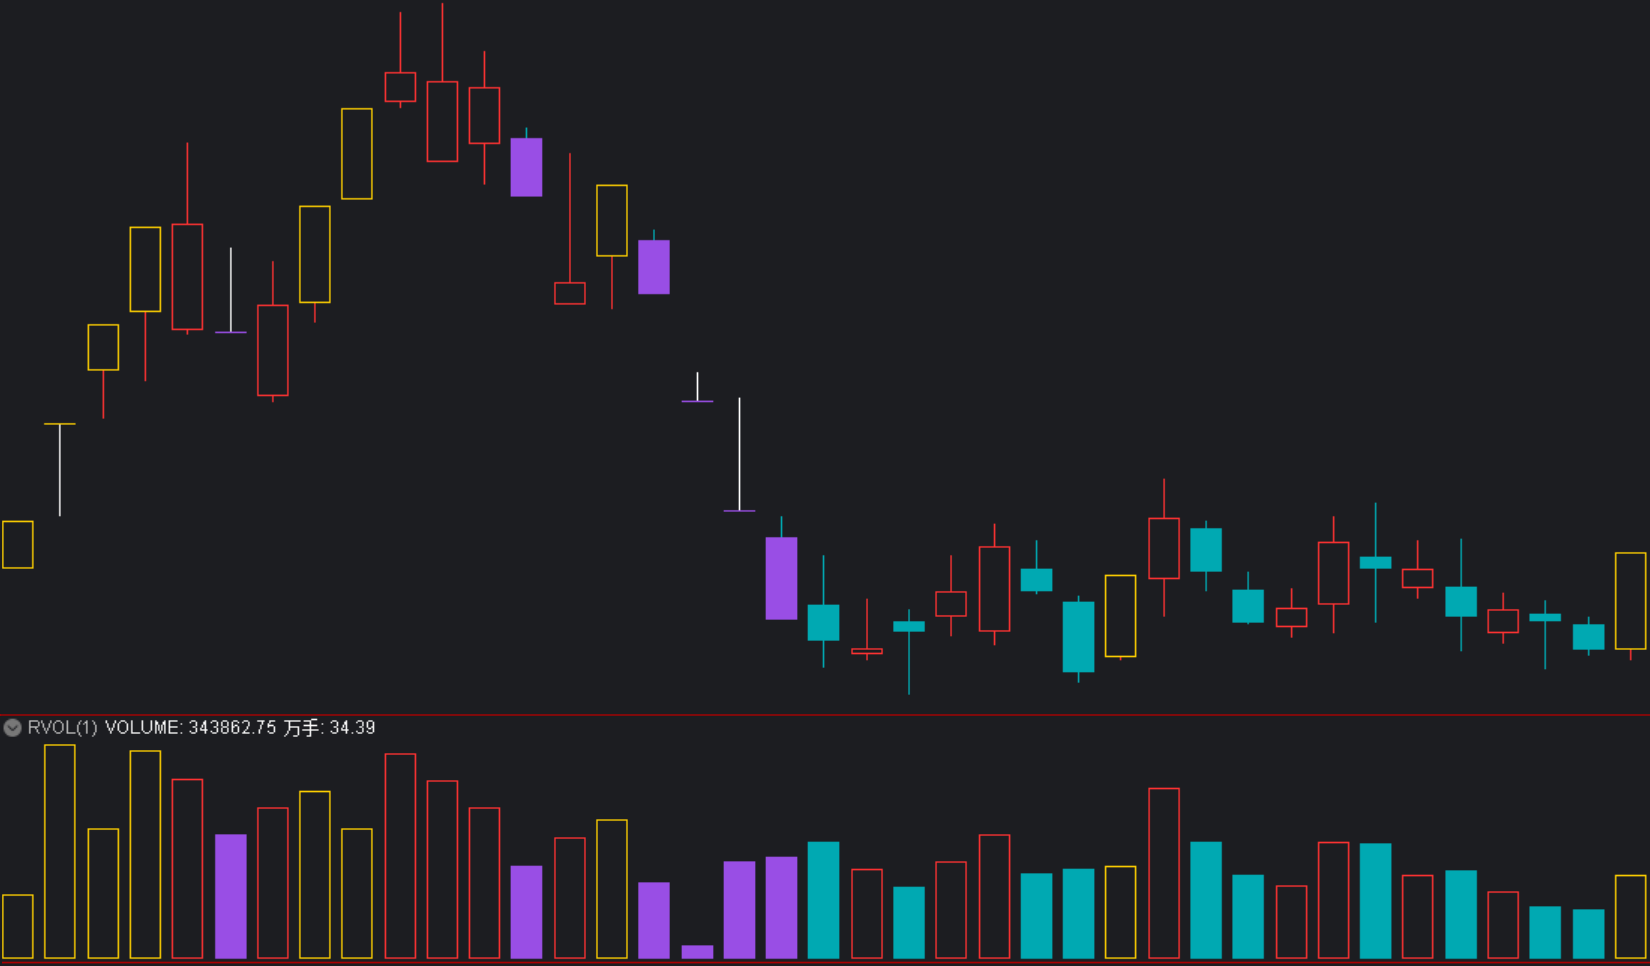
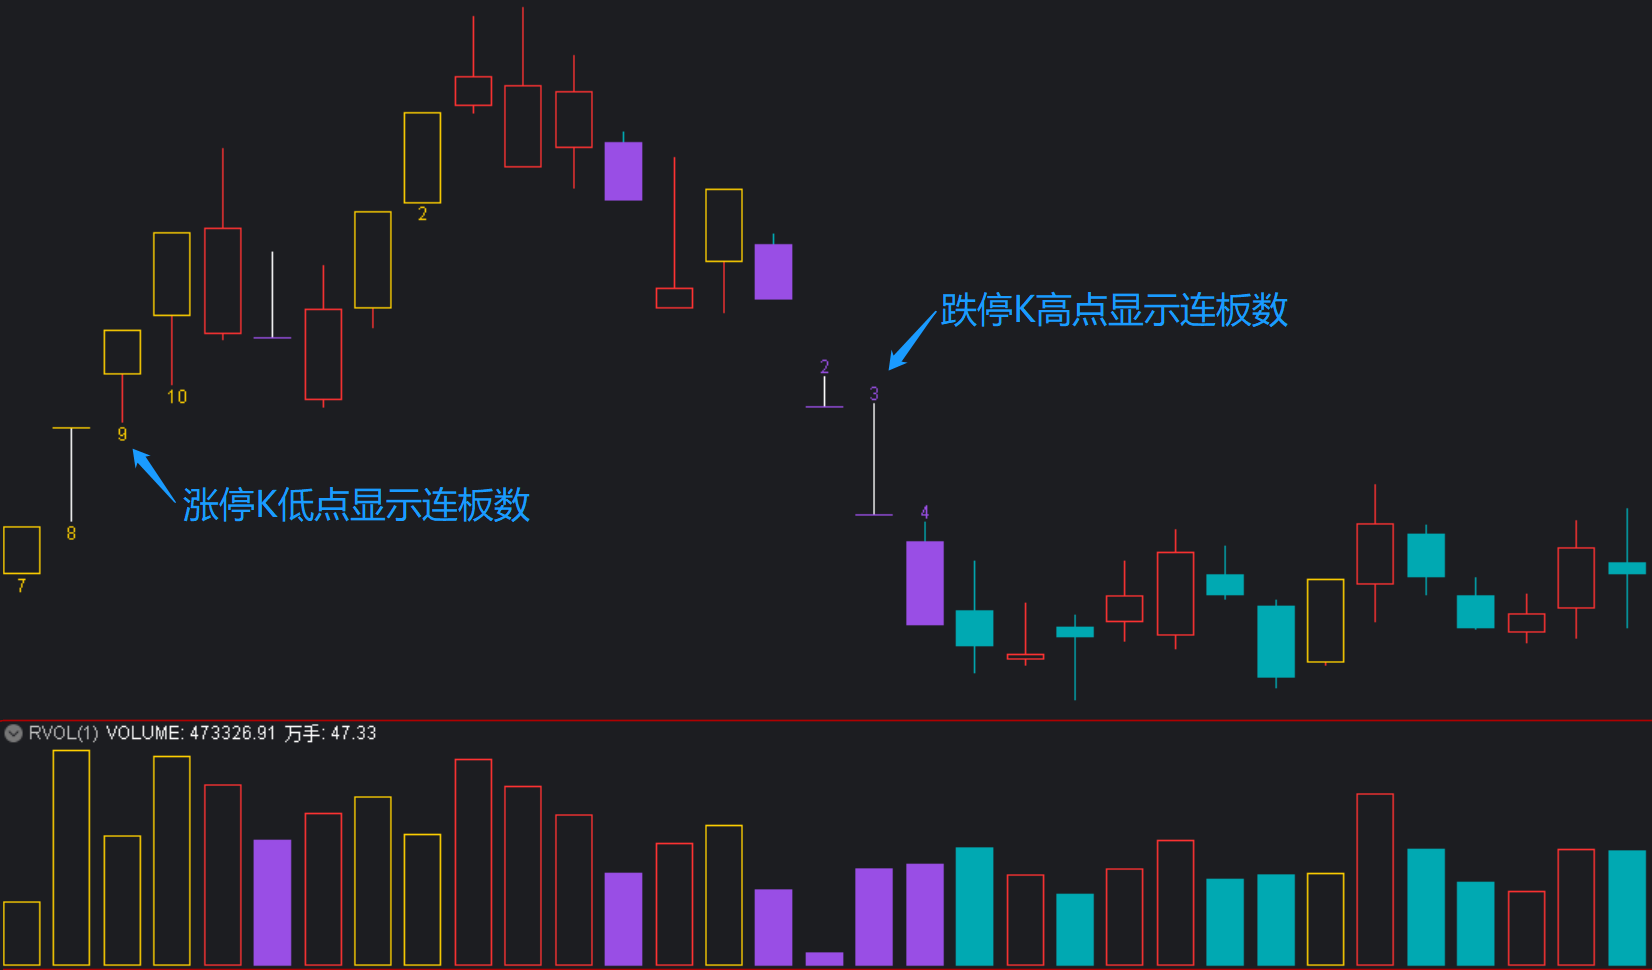
通达信-RZDT-增加涨跌停K低高点显示连板数功能

diff --git a/通达信公式/12-RZDT-涨跌停K线特殊显示.md b/通达信公式/12-RZDT-涨跌停K线特殊显示.md
@@ -26,11 +26,15 @@ SWITCH:=(0,1,1); {Param#0}
 ZT:=RS.ZT;
 STICKLINE(SWITCH=1 AND ZT,O,C,2.9,1),RGBXFFD000;{实体}
 {STICKLINE(SWITCH=1 AND ZT AND O>L,L,O,0.01,0),RGBXFFD000;下影线};
+ZTC:=BARSLASTCOUNT(ZT);
+DRAWNUMBER(ZTC>1,L,ZTC),RGBXFFD000;{低点显示连板数}
 
 {跌停}
 DT:=RS.DT;
 STICKLINE(SWITCH=1 AND DT,O,C,2.9,0),RGBX994EE5;{实体}
 {STICKLINE(SWITCH=1 AND DT AND O<H,O,H,0.01,0),RGBX994EE5;上影线};
+DTC:=BARSLASTCOUNT(DT);
+DRAWNUMBER(DTC>1,H,DTC),RGBX994EE5,DRAWABOVE;{高点显示连板数};
 ```
 
 备注：
@@ -49,10 +53,11 @@ STICKLINE(SWITCH=1 AND DT,O,C,2.9,0),RGBX994EE5;{实体}
 **用法注释：**
 
 ```txt
-涨跌停 K 线用特殊颜色重绘
+涨跌停 K 线特殊颜色重绘。
+涨跌停 K 低高点显示连板数。
 Since 2022-10-01 @RJ <rongjih@163.com>
 ```
 
 ## 4. 下载
 
-[RZDT-涨跌停K线特殊显示-v221005.tn6](assets/12-RZDT-涨跌停K线特殊显示-v221005.tn6)
+[RZDT-涨跌停K线特殊显示-v221006.tn6](assets/12-RZDT-涨跌停K线特殊显示-v221006.tn6)
